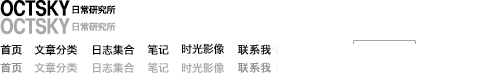
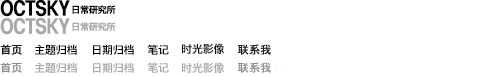
修改banner 以及部分博文
+ 改JavaScript core错别字
- 去掉banner中的 时光影像
= 改首页摄影链接
= 改page模板使用page.description显示标题，可以定制中文
- 删除coffeecat 图片
= 修改about页面

diff --git a/index.html b/index.html
@@ -29,7 +29,7 @@ title: Leeon's Blog|迎着阳光
 
     </div>
     <div class="col-md-5 post-box">
-        <a target=_blank href="http://time.octsky.com"><img src="lib/img/photo.jpg" alt=""></a>
+        <a target=_blank href="http://www.flickr.com/photos/octobershiner"><img src="lib/img/photo.jpg" alt=""></a>
         <div class="meta long" style="opacity: 1;">
             <h3>攝影</h3>
             <p class="description">照片可以記錄時間...</p>
@@ -37,21 +37,3 @@ title: Leeon's Blog|迎着阳光
     </div>
     <div class="col-md-1"></div>
 </div>
-
-
-<!-- <div class="row">
-  <div class="col-md-2 notice">
-         {{ post.date |date:"%Y.%m.%d"}}最新文章 <a href=""><h4>分类阅读</h4></a>
-  </div>
-</div>
-{% for post in paginator.posts %}
-
-<div class="posts">
-
-<div class="title"><a href="{{ post.url }}">{{ post.title }}</a></div>
-<div class="content {{ post.categories }}_content_css">
-{{ post.content }}
-</div>
-</div>
-{% endfor %}
- -->

diff --git a/_includes/banner.html b/_includes/banner.html
@@ -8,7 +8,7 @@
         <li id="gnCategories"><a href="/categories/" title="文章分类">文章分类</a></li>
         <li id="gnArchive"><a href="/archive/" title="日志集合">日志集合</a></li>
         <li id="gnNote"><a href="/note/" title="笔记">笔记</a></li>
-        <li id="gnImage"><a target=_blank href="http://www.flickr.com/photos/octobershiner" title="时光影像">时光影像</a></li>
+       <!--  <li id="gnImage"><a target=_blank href="http://www.flickr.com/photos/octobershiner" title="时光影像">时光影像</a></li> -->
         <li id="gnContact"><a href="/about/" title="联系我">联系我</a></li>
     </ul>
     </div>

diff --git a/_layouts/page.html b/_layouts/page.html
@@ -20,7 +20,7 @@
            <div class="asset-meta"></div>
         </div>
     
-        <div class="title"><a href="{{ page.url }}">{{ page.title }}</a></div>
+        <div class="title"><a href="{{ page.url }}">{{ page.description }}</a></div>
         <div class="content">
           {{ content }}
         </div>

diff --git a/_posts/tech/2014-02-26-javascript-core.md b/_posts/tech/2014-02-26-javascript-core.md
@@ -74,7 +74,7 @@ JavaScript代码运行分为两个阶段，`entering the execution` 和 `code ex
 
 ##Scope Chain
 
-作用域链是用于JavaScript寻找变量的结构，由一系列的对象组成，如果一个变量在自己所在的Scope中找不到，也就是自己VO/AO没有，（可以看出，自己的VO/AO）是作用域链的顶端）就去父节点的VO/AO去寻找。根据这个原理，JavaScript中的作用域和其他高级编程语言（利用Block区分作用域）不同，通过函数调用决定作用域链，因为函数调用会穿件新的VO/AO.本Scope内不存在的变量叫做`free variable`.
+作用域链是用于JavaScript寻找变量的结构，由一系列的对象组成，如果一个变量在自己所在的Scope中找不到，也就是自己VO/AO没有，（可以看出，自己的VO/AO）是作用域链的顶端）就去父节点的VO/AO去寻找。根据这个原理，JavaScript中的作用域和其他高级编程语言（利用Block区分作用域）不同，通过函数调用决定作用域链，因为函数调用会创建新的VO/AO.本Scope内不存在的变量叫做`free variable`.
 
     var x = 10;
      

diff --git a/about/index.md b/about/index.md
@@ -1,7 +1,7 @@
 ---
 layout:     page
 title:      About
-description: 关于我
+description: Card
 ---
 
 <div class="row about">
@@ -10,9 +10,12 @@ description: 关于我
     </div>
     <div class="col-md-6">
         <h3>Info</h3>
-        <p>Leeon,哈尔滨工业大学研一学生,WI输入法团队负责人.</p>
+        <p>我的博客名为『日常研究所』,缘由我对待生活的态度。</p>
+        <p>You can call me <b>Leeon</b> or <b>Oct</b>.</p>
         <h3>Social</h3>
-        <a href="http://www.github.com/leeon">Github</a> <a href="http://weibo.com/V5liyang">微博</a>
+        <a href="http://www.github.com/leeon">Github</a> 
+        <a href="http://twitter.com/realliyang">Twitter</a>
+        <a href="http://weibo.com/V5liyang">微博</a>
         <a href="http://www.douban.com/people/octobershiner/">豆瓣</a>
         <h3>Mail</h3>
         <a href="mailto:leeon@outlook.com">leeon (at) outlook.com</a>

diff --git a/categories/index.md b/categories/index.md
@@ -1,9 +1,9 @@
 ---
 layout:  page
 title: Categories
-description: 分类
+description: 主题归档
 ---
-分类浏览，你也可以通过[日期](/archive/)查看：
+按时间排序,可以通过[日期归档](/archive/)查看：
 
 
 <div class="row">

diff --git a/archive/index.md b/archive/index.md
@@ -1,7 +1,7 @@
 ---
 layout:  page
 title: Archive
-description: 归档
+description: 日期归档
 ---
 
 这里有一些**[标签](../tags)**帮你选择喜欢的话题：

diff --git a/note/index.md b/note/index.md
@@ -1,7 +1,7 @@
 ---
 layout: page
 title: Note
-description: 笔记记录点点滴滴
+description: 笔记
 ---
 ###Tips
 + [Tec issues](tips/tec.html)

diff --git a/tags/index.md b/tags/index.md
@@ -1,7 +1,7 @@
 ---
 layout:  page
 title: Tags
-description: 标记
+description: 标签归档
 ---
 散落的贝壳，像海的记忆：
 
